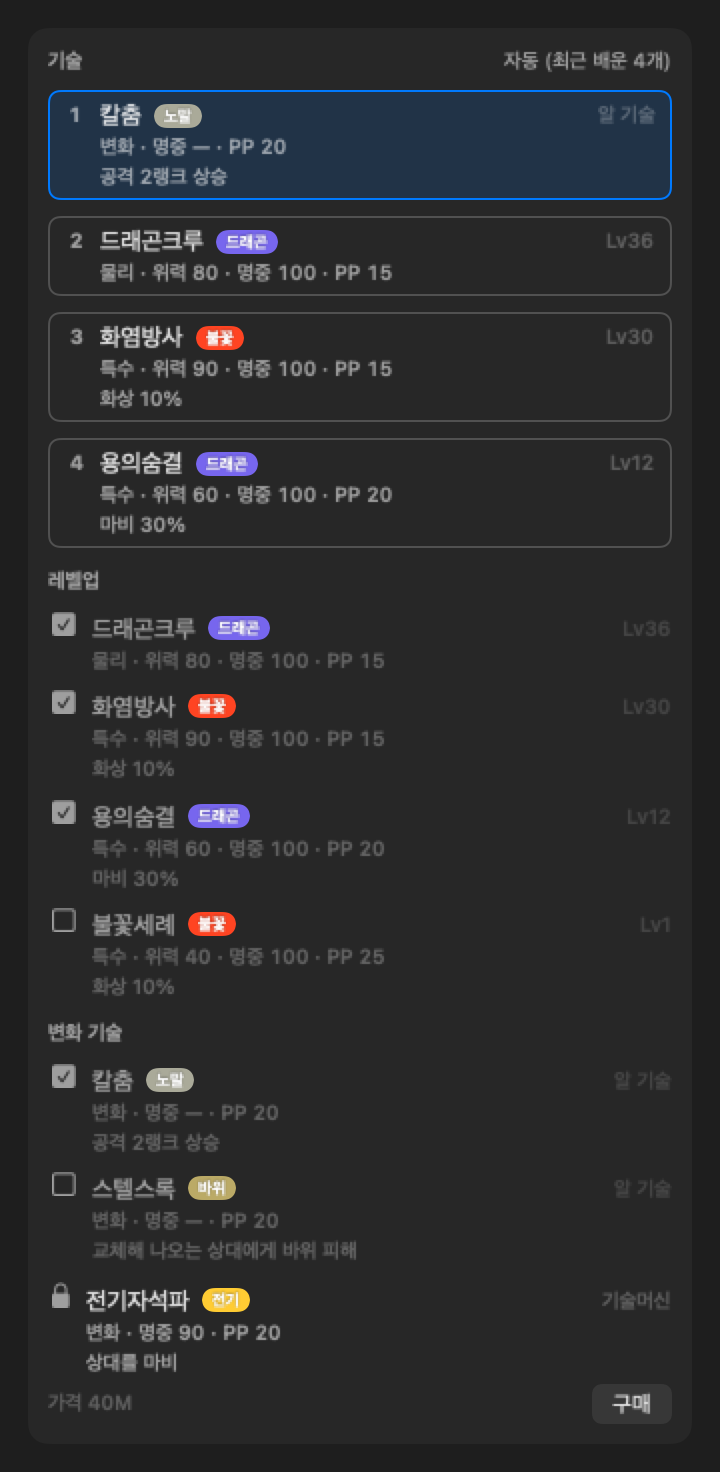
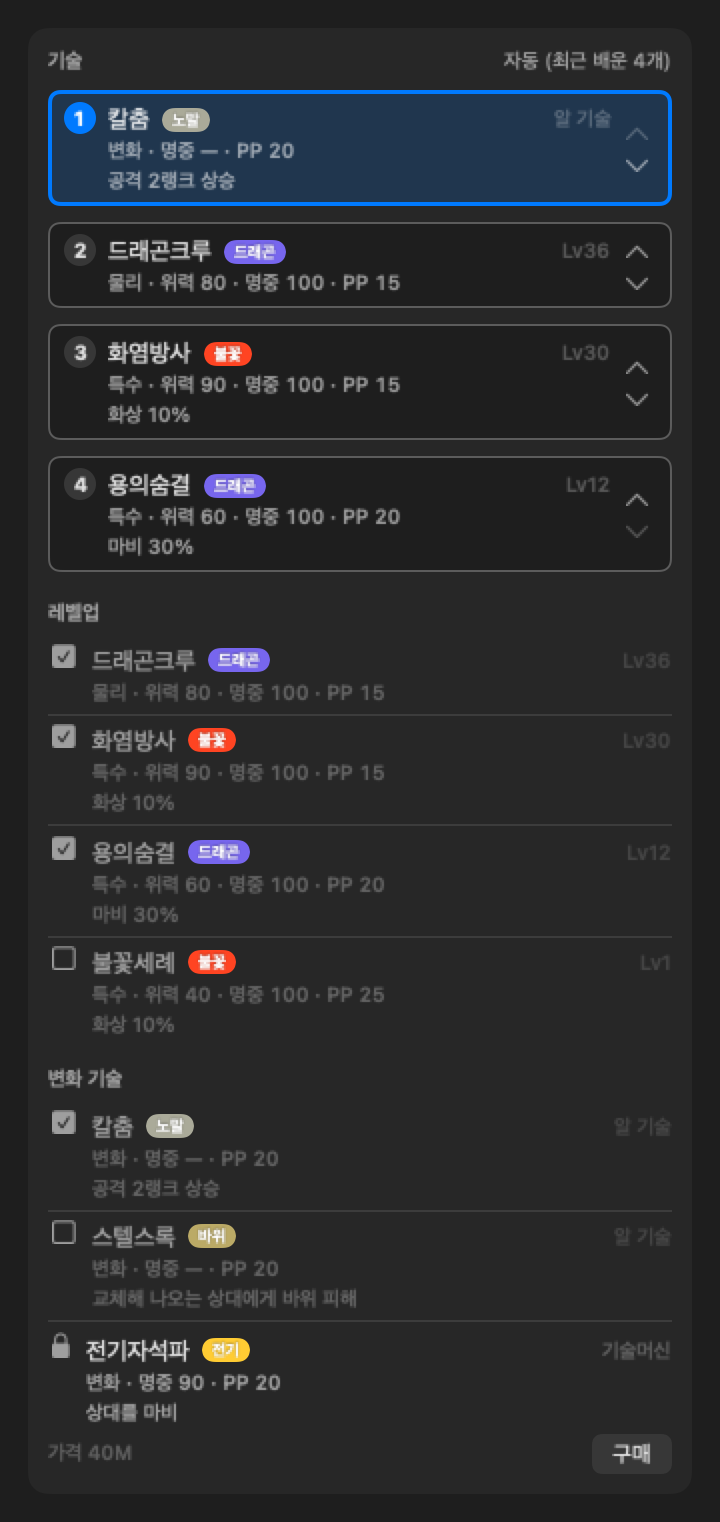
docs: add a README image of the move slot cards and redraw the profile and move picker images
The release gate asks for a new README image for the move-slot feat and a redraw of screenshot-pokemon-profile. MoveTrainingSection now maps to the profile, move-order and status-moves images in SCREENS.

diff --git a/Tests/PokeTokenBarTests/ReadmeScreenshotTests.swift b/Tests/PokeTokenBarTests/ReadmeScreenshotTests.swift
@@ -96,6 +96,8 @@ final class ReadmeScreenshotTests: XCTestCase {
                            "screenshot-pokemon-profile\(suffix)", in: dir, height: 560)
             try await shot(statusMoves(store: store, uploader: uploader, entry: entry),
                            "screenshot-status-moves\(suffix)", in: dir, height: nil)
+            try await shot(moveOrder(store: store, uploader: uploader, entry: entry),
+                           "screenshot-move-order\(suffix)", in: dir, height: nil)
             try await shot(popover { $0.openBoxDetail(id: StoredFriendScreenshotTests.bulbasaurID) },
                            "screenshot-exp-share\(suffix)", in: dir, height: 380)
             let (battleStore, battleCleanup) = try BoxDexFixture.makeStore(
@@ -290,6 +292,13 @@ final class ReadmeScreenshotTests: XCTestCase {
         let candidate = try XCTUnwrap(BattleEntry.candidates(in: store.state).first { $0.id == BoxDexFixture.charizardID })
         return MoveTrainingSection(store: store, battleEntry: entry, uploader: uploader, candidate: candidate,
                                    initialEditing: 0, onChange: {})
+            .padding(PopoverMetrics.padding)
+    }
+
+    private func moveOrder(store: CompanionStore, uploader: PartyUploader, entry: BattleEntryStore) throws -> some View {
+        let candidate = try XCTUnwrap(BattleEntry.candidates(in: store.state).first { $0.id == BoxDexFixture.charizardID })
+        return MoveTrainingSection(store: store, battleEntry: entry, uploader: uploader, candidate: candidate,
+                                   onChange: {})
             .padding(PopoverMetrics.padding)
     }
 

diff --git a/scripts/release-asset-gate.py b/scripts/release-asset-gate.py
@@ -34,7 +34,7 @@ SCREENS = (
     ("BoxFilterPanel.swift", ("screenshot-collection-box",)),
     ("BoxDetailView.swift", ("screenshot-pokemon-profile", "screenshot-exp-share")),
     ("PokemonDetailParts.swift", ("screenshot-pokemon-profile",)),
-    ("MoveTrainingSection.swift", ("screenshot-pokemon-profile",)),
+    ("MoveTrainingSection.swift", ("screenshot-pokemon-profile", "screenshot-move-order", "screenshot-status-moves")),
     ("ExpShareSlot.swift", ("screenshot-exp-share",)),
     ("GymReplayView.swift", ("screenshot-gym-replay",)),
     ("GymResultView.swift", ("screenshot-gym-replay", "screenshot-hidden-boss")),

diff --git a/README.ko.md b/README.ko.md
@@ -166,12 +166,14 @@ Pi는 모델 여러 개를 세션 로그 하나로 흘려보낼 수 있습니다
 </td>
 </tr>
 <tr>
-<td width="45%" align="center"><img src="assets/screenshot-pokemon-profile-ko.png" width="300" alt="지닌 도구·학습장치 칸·기술이 보이는 박스 포켓몬 프로필"><br><br><img src="assets/screenshot-status-moves-ko.png" width="300" alt="레벨업 기술과 변화 기술 묶음이 보이는 기술 선택"></td>
+<td width="45%" align="center"><img src="assets/screenshot-pokemon-profile-ko.png" width="300" alt="지닌 도구·학습장치 칸·기술이 보이는 박스 포켓몬 프로필"><br><br><img src="assets/screenshot-status-moves-ko.png" width="300" alt="레벨업 기술과 변화 기술 묶음이 보이는 기술 선택"><br><br><img src="assets/screenshot-move-order-ko.png" width="300" alt="카드로 나뉜 기술칸 네 개와 채워진 칸의 위·아래 화살표"></td>
 <td width="55%" valign="middle">
 <h3>포켓몬마다 고유한 프로필</h3>
 <b>박스</b>에서 포켓몬을 열면 레벨·성별·성격·특성·개체값·계산된 능력치·지닌 도구·기술을 확인할 수 있습니다. 종 설명과 특성·기술은 선택 언어로 표시하고, PokéAPI에 번역이 없으면 영어를 사용합니다.
 <br><br>
 <b>변화 기술</b>도 기술 선택의 별도 묶음으로 고를 수 있습니다. 칼춤·전기자석파·하품·트릭룸·스텔스록을 레벨업·기술머신·알 기술로 배우면 나옵니다. 배틀에서는 트레이너와 같은 규칙으로 씁니다.
+<br><br>
+기술칸은 칸마다 카드로 나뉩니다. 채워진 칸의 <b>▲/▼</b> 버튼을 누르면 위나 아래 칸과 자리를 바꿔서, 기술을 다시 고르지 않고 순서만 바꿀 수 있습니다.
 </td>
 </tr>
 <tr>

diff --git a/README.md b/README.md
@@ -165,12 +165,14 @@ Pi can route more than one model through a single session log. Usage is now attr
 </td>
 </tr>
 <tr>
-<td width="45%" align="center"><img src="assets/screenshot-pokemon-profile.png" width="300" alt="A Box Pokémon's profile with its held item, Exp. Share slot and moves"><br><br><img src="assets/screenshot-status-moves.png" width="300" alt="The move picker with level-up moves and a Status moves group"></td>
+<td width="45%" align="center"><img src="assets/screenshot-pokemon-profile.png" width="300" alt="A Box Pokémon's profile with its held item, Exp. Share slot and moves"><br><br><img src="assets/screenshot-status-moves.png" width="300" alt="The move picker with level-up moves and a Status moves group"><br><br><img src="assets/screenshot-move-order.png" width="300" alt="Four move slots as separate cards, each filled one with up and down arrows"></td>
 <td width="55%" valign="middle">
 <h3>Every Pokémon has its own profile</h3>
 Open a Pokémon in the <b>Box</b> to inspect it: level, gender, nature, ability, IVs, calculated stats, held item, and moves. Species descriptions, abilities, and moves use your selected language, with English as the fallback when PokéAPI has no translation.
 <br><br>
 <b>Status moves</b> join the move picker in their own group: Swords Dance, Thunder Wave, Yawn, Trick Room and Stealth Rock, when the Pokémon learns them by level-up, by TM or as an egg move. In battles your Pokémon uses them by the same rules as the trainers.
+<br><br>
+Each move slot is its own card. The <b>▲/▼</b> buttons on a filled slot swap it with the one above or below, so you can change the order without picking the moves again.
 </td>
 </tr>
 <tr>
